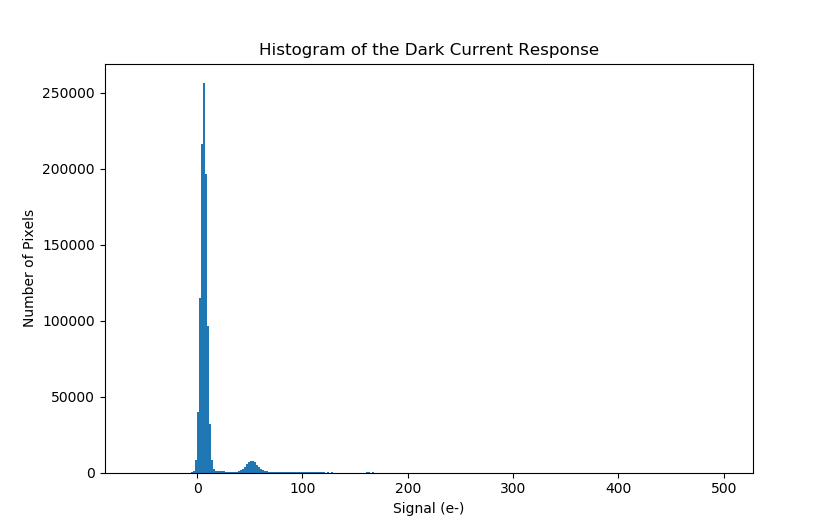
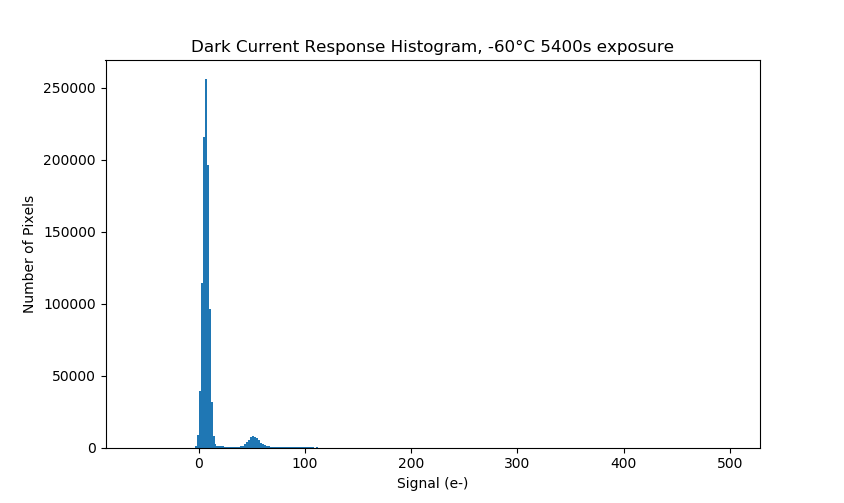
added another plot

diff --git a/more_andor_stuff.py b/more_andor_stuff.py
@@ -114,7 +114,7 @@ def run_gain_analysis(main_path):
     plt.ylabel('Variance (ADC)')
 
     # clipped the signal to 90% of max signal. This should avoid non-liniarity at near max well, or max adc
-    clipped_signal = np.ma.masked_greater(signal, .9*max(signal))
+    clipped_signal = np.ma.masked_greater(signal, .85*max(signal))
     fitresult = linregress(clipped_signal.compressed(), np.ma.array(variance, mask=clipped_signal.mask).compressed())
     slope = fitresult[0]
     intercept = fitresult[1]
@@ -151,36 +151,36 @@ def run_gain_analysis(main_path):
 
 
 # retrieve everything from the bias directory, ignoring files that are not fits
-# data_path = '/home/lee/Data/illumination_data_gain1_1MHz'
-data_path = '/home/lee/Data/illumination_data_gain2_100kHz'
+data_path = '/home/lee/Data/illumination_data_gain1_1MHz'
+# data_path = '/home/lee/Data/illumination_data_gain2_100kHz'
 
 gain = run_gain_analysis(data_path)
 
 
 # check the average of the selected region
 # while I'm at it, extract the data into a list
-region_data = []
-for filename_list in sub_dir_filenames:
-    print('-----------------------------------------------------')
-    print(filename_list)
-    print('Naive Average')
-    for file in filename_list:
-        with fits.open(file) as hdul:
-            # print(np.mean(hdul[0].data))
-            data_frame = hdul[0].data - master_bias_frame
-            selected_data = data_frame[selection.ymin:selection.ymax, selection.xmin:selection.xmax]
-            region_data.append(selected_data)
-            print(np.mean(selected_data))
-
-# check the data for patterns
-region_stack = np.stack(region_data)
-median_region = np.median(region_stack, axis=0)
-plt.figure('median of the region data')
-plt.hist(median_region.flatten(), bins=np.arange(-300.5, 300.5, step=1) + 3801)
-plt.title('Median of the region stack\n binned from 3500.5 to 4100.5')
-plt.figure('median of the region data, different bins')
-plt.hist(median_region.flatten(), bins=np.arange(-300, 300, step=1) + 3800)
-plt.title('Median of the region stack\n binned from 3500 to 4100')
-plt.figure('single region data')
-plt.hist(region_data[0].flatten(), bins=np.arange(-300, 300, step=1) + 3800)
-plt.title('One of the regions, pulled from the stack\n binned from 3500 to 4100')
+# region_data = []
+# for filename_list in sub_dir_filenames:
+#     print('-----------------------------------------------------')
+#     print(filename_list)
+#     print('Naive Average')
+#     for file in filename_list:
+#         with fits.open(file) as hdul:
+#             # print(np.mean(hdul[0].data))
+#             data_frame = hdul[0].data - master_bias_frame
+#             selected_data = data_frame[selection.ymin:selection.ymax, selection.xmin:selection.xmax]
+#             region_data.append(selected_data)
+#             print(np.mean(selected_data))
+#
+# # check the data for patterns
+# region_stack = np.stack(region_data)
+# median_region = np.median(region_stack, axis=0)
+# plt.figure('median of the region data')
+# plt.hist(median_region.flatten(), bins=np.arange(-300.5, 300.5, step=1) + 3801)
+# plt.title('Median of the region stack\n binned from 3500.5 to 4100.5')
+# plt.figure('median of the region data, different bins')
+# plt.hist(median_region.flatten(), bins=np.arange(-300, 300, step=1) + 3800)
+# plt.title('Median of the region stack\n binned from 3500 to 4100')
+# plt.figure('single region data')
+# plt.hist(region_data[0].flatten(), bins=np.arange(-300, 300, step=1) + 3800)
+# plt.title('One of the regions, pulled from the stack\n binned from 3500 to 4100')

diff --git a/darkframe_60c_analysis.py b/darkframe_60c_analysis.py
@@ -53,7 +53,7 @@ darkcurrent_5400_average = (darkcurrent_5400_average - bias_60c)*gain
 # show the histogram of the average dark current
 plt.figure('dark current histrogram at 5400s, -60c')
 plt.hist(darkcurrent_5400_average.flatten(), bins=300, range=(darkcurrent_5400_average.min(), 500))
-plt.title('Histogram of the Dark Current Response')
+plt.title('Dark Current Response Histogram, -60°C 5400s exposure')
 plt.xlabel('Signal (e-)')
 plt.ylabel('Number of Pixels')
 
